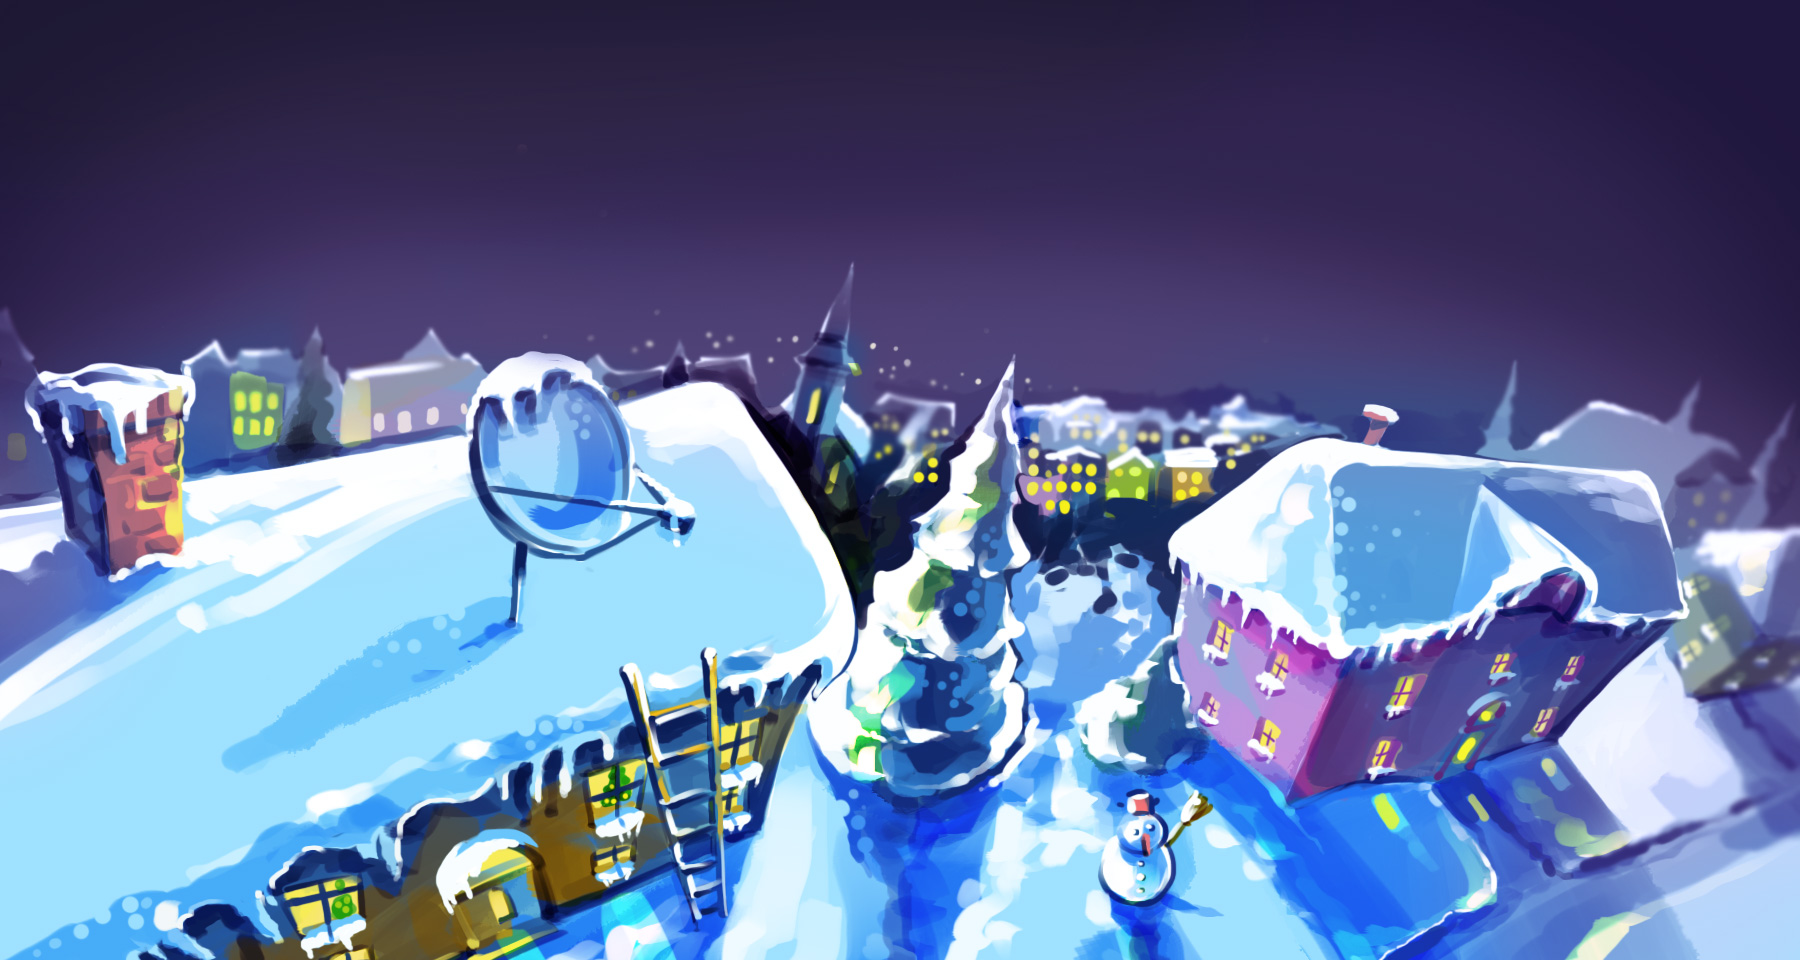
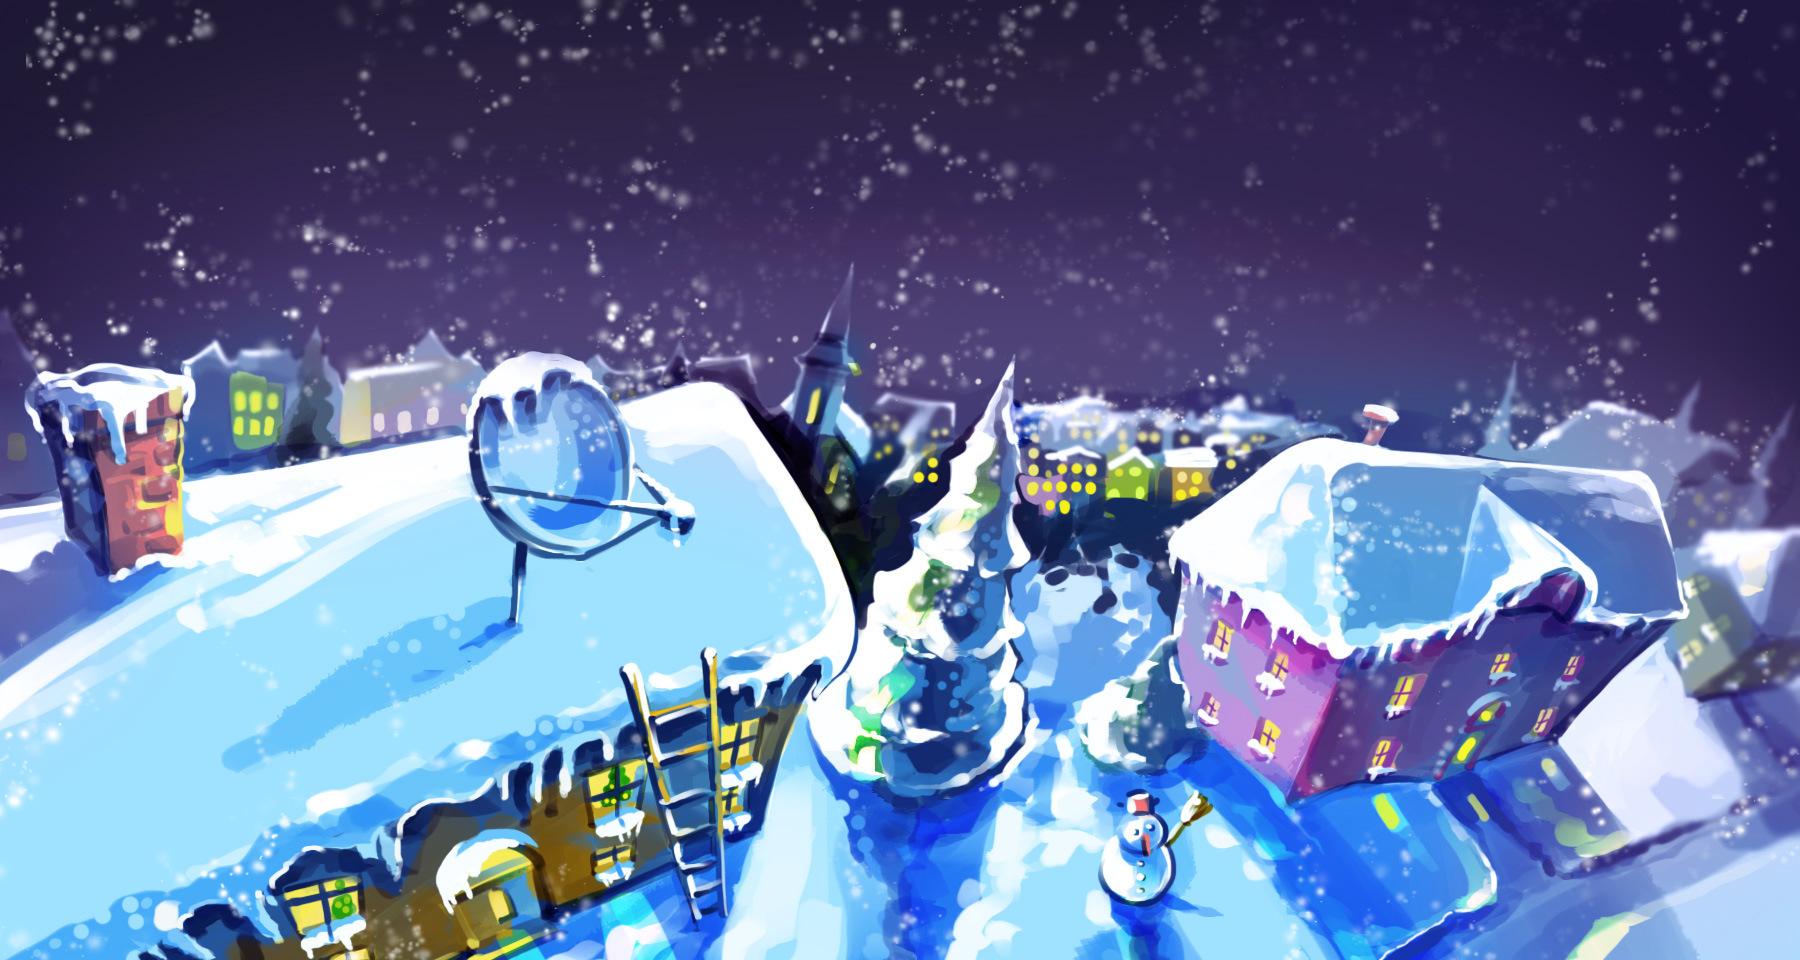
parallax fix

diff --git a/css/site.scss b/css/site.scss
@@ -80,11 +80,10 @@
 	}
 
 	header {
-		// background: $bg-url no-repeat top center;
-		background: #221c38;
+		background: $bg-url no-repeat top center #221c38;
 		background-size: 100%;
 		width: 100%;
-		height: 54.3vw;
+		height: 52.3vw;
 		-webkit-box-sizing: border-box;
 		-moz-box-sizing: border-box;
 		box-sizing: border-box;
@@ -152,6 +151,7 @@
 		width: 95%;
 		text-shadow: 1px 1px 1px rgba(0,0,0,0.2);
 		// margin-top: 400px;//	
+
 	}
 	h2 {
 		font-size: 2.3vw;
@@ -225,15 +225,28 @@
 		background: url(../img/snow.png) top center no-repeat;
 		background-size: 100%;
 		display: block;
+		z-index: 5;
 
 	}
 
 	// PARALLAX
+
+	div#house {
+		width: 100%;
+		position: absolute;
+		z-index: 3;
+	}
+	div#house img {
+			width: 105% !important;
+			margin-left: -2.3vw;
+		}
+
 		.scene {
 		width: 100%;
 		height: 52.3vw;
 		margin: 0 auto;
 		position: absolute;
+		// z-index: 2;
 		li img {
 			height: 100%;
 			width: auto;
@@ -242,7 +255,8 @@
 			height: auto;
 			width: 100%;
 		}
-		li#house.layer img, li#sky.layer img, li#smoke.layer img  {
+		//, li#smoke.layer img 
+		li#house.layer img, li#sky.layer img {
 			width: 105% !important;
 			margin-left: -2.3vw;
 		}
@@ -251,7 +265,7 @@
 		li#moon.layer {
 		max-height: 11vw;
 		max-width: 100px;
-		margin-top: 6vw;
+		margin-top: 5vw;
 		margin-left: 35vw;
 		}
 		li#snow1.layer {

diff --git a/css/site.css b/css/site.css
@@ -11,10 +11,10 @@ body {
   overflow-x: hidden; }
 
 header {
-  background: #221c38;
+  background: url(../img/bg.jpg) no-repeat top center #221c38;
   background-size: 100%;
   width: 100%;
-  height: 54.3vw;
+  height: 52.3vw;
   -webkit-box-sizing: border-box;
   -moz-box-sizing: border-box;
   box-sizing: border-box;
@@ -133,7 +133,17 @@ footer {
 .flake {
   background: url(../img/snow.png) top center no-repeat;
   background-size: 100%;
-  display: block; }
+  display: block;
+  z-index: 5; }
+
+div#house {
+  width: 100%;
+  position: absolute;
+  z-index: 3; }
+
+div#house img {
+  width: 105% !important;
+  margin-left: -2.3vw; }
 
 .scene {
   width: 100%;
@@ -146,14 +156,14 @@ footer {
   .scene li#stars.layer img, .scene li#smoke.layer img, .scene li#house.layer img, .scene li#sky.layer img {
     height: auto;
     width: 100%; }
-  .scene li#house.layer img, .scene li#sky.layer img, .scene li#smoke.layer img {
+  .scene li#house.layer img, .scene li#sky.layer img {
     width: 105% !important;
     margin-left: -2.3vw; }
 
 li#moon.layer {
   max-height: 11vw;
   max-width: 100px;
-  margin-top: 6vw;
+  margin-top: 5vw;
   margin-left: 35vw; }
 
 li#smoke.layer {

diff --git a/index.html b/index.html
@@ -33,11 +33,13 @@
 	<body>
 		<header>
 
+			<!-- <div id="house" ><img src="img/house.png"></div> -->
+
 		<ul id="scene" class="scene">
-			<li class="layer" id="sky" data-depth="0.24"><img src="img/sky.jpg"></li>
-			<li class="layer" id="smoke" data-depth="0.15"><img src="img/smoke.png"></li>			
-			<li class="layer" id="house" data-depth="0.21"><img src="img/house.png"></li>
-			<li class="layer" id="stars" data-depth="0.20"><img src="img/stars.png"></li>
+			<!-- <li class="layer" id="sky" data-depth="0.24"><img src="img/sky.jpg"></li> -->
+			<li class="layer" id="smoke" data-depth="0.05"><img src="img/smoke.png"></li>			
+			<!-- <li class="layer" id="house" data-depth="0.21"><img src="img/house.png"></li> -->
+			<li class="layer" id="stars" data-depth="0.04"><img src="img/stars.png"></li>
 			
 			<li class="layer" id="moon" data-depth="0.90"><img src="img/moon.png"></li>
 	<!-- 		<li class="layer" id="snow1" data-depth="0.04"><img src="img/snow-parallax.png"></li>
